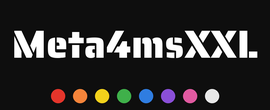
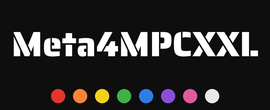
Rename to Meta4MPCXXL / Meta4MPCXXL FX (no company name in the title); 0.1.1
New plugin IDs (M4Pi/M4Pf), so files, skins and the patch folder use the new name. SETUP help text rewrapped
and kept inside the page; the Wi-Fi row moved down so its label isn't clipped.

Claude-Session: https://claude.ai/code/session_01QDVfy8qcmL3SgZMsVEP1FP

Changed region(s): [[0.0296, 0.2727, 0.9778, 0.5455]]

diff --git a/src/engine.cc b/src/engine.cc
@@ -1,11 +1,11 @@
-// Meta4msXXL: plays 4ms MetaModule patches (VCV Rack patches exported with the MetaModule hub) as an MPC OS plugin.
+// Meta4MPCXXL: plays 4ms MetaModule patches (VCV Rack patches exported with the MetaModule hub) as an MPC OS plugin.
 //
 // The patch player is 4ms's own (firmware/src/patch_play, vendored in third_party/metamodule), the code their
 // headless simulator runs. This file is the MPC side: the wrapper's engine contract (mpc-vst-plugins wrapper/engine.h),
 // one worker thread per instance for scanning and loading patches, MIDI from the track into the patch, the host's
 // tempo as MIDI clock, the Q-Link pages (pages.cc) and the CV port (cv_port.cc).
 //
-// Built twice: Meta4msXXL (instrument) and, with -DMETA4MS_FX, Meta4msXXL FX (effect: the track's audio goes into the
+// Built twice: Meta4MPCXXL (instrument) and, with -DMETA4MPC_FX, Meta4MPCXXL FX (effect: the track's audio goes into the
 // patch's In 1 / In 2).
 extern "C" {
 #include "engine.h"
@@ -46,15 +46,15 @@ extern "C" {
 
 using namespace MetaModule;
 
-namespace Meta4ms
+namespace Meta4MPC
 {
 
-#ifdef META4MS_FX
+#ifdef META4MPC_FX
 constexpr bool IsFx = true;
-constexpr const char *PlugName = "Meta4msXXL FX";
+constexpr const char *PlugName = "Meta4MPCXXL FX";
 #else
 constexpr bool IsFx = false;
-constexpr const char *PlugName = "Meta4msXXL";
+constexpr const char *PlugName = "Meta4MPCXXL";
 #endif
 
 constexpr float SampleRate = 44100.f;
@@ -986,11 +986,11 @@ struct DenormalGuard {
 #endif
 };
 
-} // namespace Meta4ms
+} // namespace Meta4MPC
 
 // ---------------------------------------------------------------- the wrapper's engine contract
 
-using Meta4ms::Inst;
+using Meta4MPC::Inst;
 
 static void *e_create(const char *data_dir) {
 	return new Inst(data_dir);
@@ -999,7 +999,7 @@ static void e_destroy(void *p) {
 	delete static_cast<Inst *>(p);
 }
 static void e_midi(void *p, const uint8_t *msg, int len) {
-	Meta4ms::DenormalGuard g;
+	Meta4MPC::DenormalGuard g;
 	static_cast<Inst *>(p)->midi_in(msg, len);
 }
 static void e_set(void *p, const char *k, const char *v) {
@@ -1009,11 +1009,11 @@ static int e_get(void *p, const char *k, char *buf, int len) {
 	return static_cast<Inst *>(p)->get_param(k, buf, len);
 }
 static void e_render(void *p, int16_t *out, int frames) {
-	Meta4ms::DenormalGuard g;
+	Meta4MPC::DenormalGuard g;
 	static_cast<Inst *>(p)->run([](int, float &l, float &r) { l = r = 0; }, out, frames);
 }
 static void e_process(void *p, const int16_t *in, int16_t *out, int frames) {
-	Meta4ms::DenormalGuard g;
+	Meta4MPC::DenormalGuard g;
 	static_cast<Inst *>(p)->run(
 		[in](int i, float &l, float &r) {
 			l = in[2 * i] * (1.f / 32768.f);
@@ -1028,7 +1028,7 @@ static void e_song_pos(void *p, double ppq, double bpm, int playing, int frames)
 
 extern "C" const mpc_engine_t *mpc_engine(void) {
 	static const mpc_engine_t api = {e_create, e_destroy, e_midi, e_set, e_get, e_render,
-#ifdef META4MS_FX
+#ifdef META4MPC_FX
 									 e_process,
 #else
 									 nullptr,

diff --git a/tools/build_engine.py b/tools/build_engine.py
@@ -1,12 +1,12 @@
 #!/usr/bin/env python3
-"""Compile the vendored MetaModule patch player plus Meta4msXXL's engine into object files.
+"""Compile the vendored MetaModule patch player plus Meta4MPCXXL's engine into object files.
 
     python3 tools/build_engine.py arm   [-j N]   -> build/arm/obj/...   (Force / MPC OS Gen1: armv7-a hard-float, glibc 2.31, via Zig)
     python3 tools/build_engine.py host  [-j N]   -> build/host/obj/...  (x86 test build, the host's g++/gcc)
 
 Every MetaModule unit is compiled with the defines, include dirs, standard and forced includes recorded in
 third_party/metamodule/manifest.json (taken from 4ms's own headless build, tools/vendor_metamodule.py), so the code
-is built the way 4ms builds it. Meta4msXXL's own sources (ENGINE_SOURCES below) get the union of MetaModule's
+is built the way 4ms builds it. Meta4MPCXXL's own sources (ENGINE_SOURCES below) get the union of MetaModule's
 include dirs. Objects are rebuilt only when the source or any header it included changed (-MMD depfiles).
 Prints the list of object files (one per line) on success; build.sh links them with the wrapper.
 """
@@ -21,12 +21,12 @@ import sys
 ROOT = os.path.normpath(os.path.join(os.path.dirname(os.path.abspath(__file__)), ".."))
 MM = "third_party/metamodule"
 ENGINE_SOURCES = ["src/pages.cc"]
-# Meta4msXXL sources that use only the C library and POSIX: compiled WITHOUT MetaModule's include dirs, whose plugin
+# Meta4MPCXXL sources that use only the C library and POSIX: compiled WITHOUT MetaModule's include dirs, whose plugin
 # SDK has its own dirent.h/stdio replacements for the hardware (they shadowed opendir() and the library came up empty).
 PLAIN_SOURCES = ["src/library.cc", "src/cv_port.cc", "src/wifi.cc"]
-# compiled once per plugin: Meta4msXXL (instrument) and Meta4msXXL FX (effect)
-VARIANTS = {"inst": [], "fx": ["-DMETA4MS_FX"]}
-# Meta4msXXL's own sources take the flags 4ms used for the patch player itself, so every header they share is
+# compiled once per plugin: Meta4MPCXXL (instrument) and Meta4MPCXXL FX (effect)
+VARIANTS = {"inst": [], "fx": ["-DMETA4MPC_FX"]}
+# Meta4MPCXXL's own sources take the flags 4ms used for the patch player itself, so every header they share is
 # compiled the same way on both sides.
 TEMPLATE_UNIT = "firmware/src/patch_play/patch_player_load.cc"
 EXTRA_INCLUDES = ["src", "third_party/flatbuffers/include", "third_party/4ms-vcv"]

diff --git a/tools/post_skin.py b/tools/post_skin.py
@@ -29,11 +29,11 @@ SS = 4
 TEXTS = {
     1: [
         (640, 136, "mm", 34, DIM, "CV OUT"),
-        (250, 334, "mm", 34, DIM, "WI-FI RECEIVE"),
+        (250, 360, "mm", 34, DIM, "WI-FI RECEIVE"),
         (640, 252, "mm", 34, DIM, "MIDI TO HUB INS"),
-        (560, 530, "lm", 29, DIM, "Patches: a folder named Meta4msXXL on internal storage,"),
-        (560, 568, "lm", 29, DIM, "an SD card or a USB drive, then RESCAN."),
-        (560, 606, "lm", 29, DIM, "CV Out: patch outs 3-8 on the Meta4msXXL MIDI port."),
+        (560, 536, "lm", 29, DIM, "Patches: a Meta4MPCXXL folder on internal"),
+        (560, 572, "lm", 29, DIM, "storage, an SD card or USB, then RESCAN."),
+        (560, 608, "lm", 29, DIM, "CV Out: patch outs 3-8 on the Meta4MPCXXL port."),
     ],
 }
 
@@ -43,9 +43,13 @@ def font(path, px):
 
 
 def draw_text(im, x, y, anchor, size, colour, text, path=SANS):
-    """Text drawn 4x larger on a transparent layer, scaled down and composited (smooth edges)."""
-    f = font(path, size)
+    """Text drawn 4x larger on a transparent layer, scaled down and composited (smooth edges). Shrinks to stay
+    inside the page (a left-anchored line may not pass the right edge less 12 px)."""
     d0 = ImageDraw.Draw(im)
+    room = (im.width - 12 - x) if anchor == "lm" else min(x, im.width - x) * 2 - 24
+    while size > 14 and d0.textlength(text, font=font(path, size)) / SS > room:
+        size -= 1
+    f = font(path, size)
     w = int(d0.textlength(text, font=f) / SS) + 8
     h = int(size * 1.6) + 8
     layer = Image.new("RGBA", (w * SS, h * SS), (0, 0, 0, 0))

diff --git a/tools/vendor_metamodule.py b/tools/vendor_metamodule.py
@@ -10,7 +10,7 @@ dependency log), keeping their paths, and writes third_party/metamodule/manifest
 defines, include dirs, language standard and forced includes. tools/build_engine.py compiles from that manifest,
 so the plugin builds the same code the 4ms simulator does, without CMake and without fetching anything.
 
-Left out: the simulator's main (src/headless/main-headless.cc) and its wav file helpers; Meta4msXXL's engine
+Left out: the simulator's main (src/headless/main-headless.cc) and its wav file helpers; Meta4MPCXXL's engine
 (src/) takes their place. Licence files of every vendored project are copied too.
 """
 import json
@@ -26,9 +26,9 @@ ROOT = os.path.normpath(os.path.join(HERE, ".."))
 DEST = os.path.join(ROOT, "third_party", "metamodule")
 
 SKIP_SOURCES = ("simulator/src/headless/main-headless.cc", "simulator/src/headless/audio_files.cc")
-# Replaced by Meta4msXXL's own versions (see third_party/metamodule/VENDORED.md)
+# Replaced by Meta4MPCXXL's own versions (see third_party/metamodule/VENDORED.md)
 REPLACED = ("simulator/stubs/async_thread_control.cc",)
-# Headers Meta4msXXL's engine uses that the headless simulator itself did not include
+# Headers Meta4MPCXXL's engine uses that the headless simulator itself did not include
 EXTRA_FILES = ("firmware/src/gui/elements/state_names.hh", "firmware/src/core_m4/midi_controls.hh",
                "firmware/src/audio/midi.hh")
 KEEP_FLAGS = re.compile(r"^-(std=|D|include$|f(no-)?(fast-math|unsafe-math-optimizations|strict-aliasing))")

diff --git a/src/wifi.cc b/src/wifi.cc
@@ -18,7 +18,7 @@
 #include <unistd.h>
 #include <vector>
 
-namespace Meta4ms
+namespace Meta4MPC
 {
 
 namespace
@@ -240,7 +240,7 @@ void WifiReceiver::serve(int fd) {
 	std::string lh = lower(head);
 
 	if (first.rfind("GET ", 0) == 0) {
-		static const char page[] = "Meta4msXXL: send patches from the MetaModule hub in VCV Rack to this address.\n";
+		static const char page[] = "Meta4MPCXXL: send patches from the MetaModule hub in VCV Rack to this address.\n";
 		respond(fd, 200, "OK", "text/plain", page, sizeof page - 1);
 		return;
 	}
@@ -278,7 +278,7 @@ void WifiReceiver::serve(int fd) {
 				err = "Empty patch";
 		}
 	}
-	auto r = saved.empty() ? result_message(false, err) : result_message(true, "Loaded on Meta4msXXL");
+	auto r = saved.empty() ? result_message(false, err) : result_message(true, "Loaded on Meta4MPCXXL");
 	respond(fd, 200, "OK", "application/octet-stream", r.data(), r.size());
 	{
 		std::lock_guard<std::mutex> g{mx_};
@@ -316,10 +316,10 @@ std::string WifiReceiver::save(
 		err = "No drive to save to";
 		return "";
 	}
-	std::string dir = root + "/" + drive + "/Meta4msXXL";
+	std::string dir = root + "/" + drive + "/Meta4MPCXXL";
 	mkdir(dir.c_str(), 0775);
 	if (!is_dir(dir)) {
-		err = "Cannot create folder Meta4msXXL";
+		err = "Cannot create folder Meta4MPCXXL";
 		return "";
 	}
 	std::string path = dir + "/" + clean_name(filename);
@@ -339,4 +339,4 @@ std::string WifiReceiver::save(
 	return path;
 }
 
-} // namespace Meta4ms
+} // namespace Meta4MPC

diff --git a/test/test_engine.cc b/test/test_engine.cc
@@ -1,4 +1,4 @@
-// Meta4msXXL offline engine test (x86): drives the engine through the wrapper's contract (mpc_engine()) the way the
+// Meta4MPCXXL offline engine test (x86): drives the engine through the wrapper's contract (mpc_engine()) the way the
 // plugin does on the Force, without MPC.
 //
 //   test/run_tests.sh   (builds this against build/host objects and runs it)
@@ -130,7 +130,7 @@ int main(int argc, char **argv) {
 	std::string root = argc > 1 ? argv[1] : ".";
 	std::string media = root + "/build/test/media";
 	system(("rm -rf '" + media + "' && mkdir -p '" + media + "/internal-test' '" + root + "/build/test'").c_str());
-	setenv("META4MSXXL_MEDIA_ROOT", media.c_str(), 1);
+	setenv("META4MPCXXL_MEDIA_ROOT", media.c_str(), 1);
 	E = mpc_engine();
 	std::string factory = root + "/patches";
 	void *in = E->create(factory.c_str());
@@ -279,7 +279,7 @@ int main(int argc, char **argv) {
 	std::this_thread::sleep_for(std::chrono::milliseconds(300));
 	wait_loaded(in, &ppq);
 	struct stat sb;
-	CHECK(stat((media + "/internal-test/Meta4msXXL/My Hub Patch.yml").c_str(), &sb) == 0, "uploaded file not saved");
+	CHECK(stat((media + "/internal-test/Meta4MPCXXL/My Hub Patch.yml").c_str(), &sb) == 0, "uploaded file not saved");
 	printf("after upload: %s | %s | %s\n", get(in, "patch_name").c_str(), get(in, "status").c_str(),
 		   get(in, "wifi_msg").c_str());
 	set(in, "wifi", 0);

diff --git a/src/library.cc b/src/library.cc
@@ -6,7 +6,7 @@
 #include <cstdlib>
 #include <sys/stat.h>
 
-namespace Meta4ms
+namespace Meta4MPC
 {
 
 namespace
@@ -84,7 +84,7 @@ std::vector<PatchEntry> scan_library(std::string const &factory_dir) {
 	}
 	std::sort(drives.begin(), drives.end());
 	for (auto &drv : drives) {
-		std::string root = mroot + "/" + drv + "/Meta4msXXL";
+		std::string root = mroot + "/" + drv + "/Meta4MPCXXL";
 		struct stat st;
 		if (stat(root.c_str(), &st) == 0 && S_ISDIR(st.st_mode))
 			walk(root, "", 1, false, out);
@@ -103,7 +103,7 @@ int find_entry(std::vector<PatchEntry> const &lib, std::string const &rel, std::
 }
 
 std::string media_root() {
-	const char *e = std::getenv("META4MSXXL_MEDIA_ROOT");
+	const char *e = std::getenv("META4MPCXXL_MEDIA_ROOT");
 	return e && *e ? e : "/media";
 }
 
@@ -120,4 +120,4 @@ std::string read_file(std::string const &path) {
 	return s;
 }
 
-} // namespace Meta4ms
+} // namespace Meta4MPC

diff --git a/tools/make_art.py b/tools/make_art.py
@@ -1,5 +1,5 @@
 #!/usr/bin/env python3
-"""Draw Meta4msXXL's Instruments-browser tiles (270 x 110): art/tile.png and art/tile_fx.png.
+"""Draw Meta4MPCXXL's Instruments-browser tiles (270 x 110): art/tile.png and art/tile_fx.png.
 
     python3 tools/make_art.py
 
@@ -35,6 +35,6 @@ def tile(name, sub, out):
 
 
 if __name__ == "__main__":
-    tile("Meta4msXXL", "", os.path.join(ROOT, "art", "tile.png"))
-    tile("Meta4msXXL", "FX", os.path.join(ROOT, "art", "tile_fx.png"))
+    tile("Meta4MPCXXL", "", os.path.join(ROOT, "art", "tile.png"))
+    tile("Meta4MPCXXL", "FX", os.path.join(ROOT, "art", "tile_fx.png"))
     print("art/tile.png, art/tile_fx.png")

diff --git a/src/replaced/async_thread_control.cc b/src/replaced/async_thread_control.cc
@@ -1,4 +1,4 @@
-// Meta4msXXL replacement for MetaModule's simulator/stubs/async_thread_control.cc (GPL-3.0, 4ms Company).
+// Meta4MPCXXL replacement for MetaModule's simulator/stubs/async_thread_control.cc (GPL-3.0, 4ms Company).
 //
 // Same API (coreproc_plugin/async_thread_control.hh): modules get a background task that a worker thread runs
 // every millisecond (file streaming, loading samples). Changes from the 4ms stub, because inside MPC several

diff --git a/tools/knob_art.py b/tools/knob_art.py
@@ -1,5 +1,5 @@
 #!/usr/bin/env python3
-"""Replace the skin's knob filmstrips with Meta4msXXL's knob: the Davies 1900H seen from above.
+"""Replace the skin's knob filmstrips with Meta4MPCXXL's knob: the Davies 1900H seen from above.
 
     python3 tools/knob_art.py "<skin dir>/Plugin Skins"
 

diff --git a/src/pages.cc b/src/pages.cc
@@ -11,7 +11,7 @@
 
 using namespace MetaModule;
 
-namespace Meta4ms
+namespace Meta4MPC
 {
 
 namespace
@@ -267,4 +267,4 @@ std::string Pages::value_text(Item const &it, PatchPlayer &player) {
 	return s;
 }
 
-} // namespace Meta4ms
+} // namespace Meta4MPC

diff --git a/src/cv_port.cc b/src/cv_port.cc
@@ -4,7 +4,7 @@
 #include <cstring>
 #include <dlfcn.h>
 
-namespace Meta4ms
+namespace Meta4MPC
 {
 
 namespace
@@ -233,4 +233,4 @@ void CvPort::run() {
 	}
 }
 
-} // namespace Meta4ms
+} // namespace Meta4MPC
